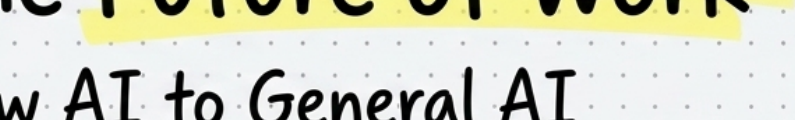
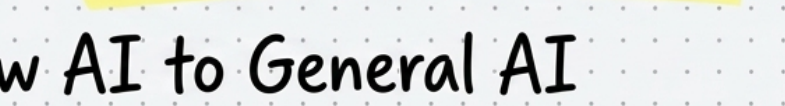
Slide 01: corrected text split from pixel analysis

diff --git a/skill-pptx-to-animated-video/scripts/segment_elements.py b/skill-pptx-to-animated-video/scripts/segment_elements.py
@@ -99,8 +99,8 @@ MAX_LAYERS = 16
 OVERRIDES = {
     1: {
         "merge": [
-            {"box": [850, 40, 800, 140], "tight": True, "type": "title", "absorb": 0.35},
-            {"box": [850, 180, 800, 120], "tight": True, "type": "text_block", "absorb": 0.35},
+            {"box": [850, 60, 800, 140], "tight": True, "type": "title", "absorb": 0.35},
+            {"box": [850, 215, 800, 115], "tight": True, "type": "text_block", "absorb": 0.35},
         ]
     }
 }